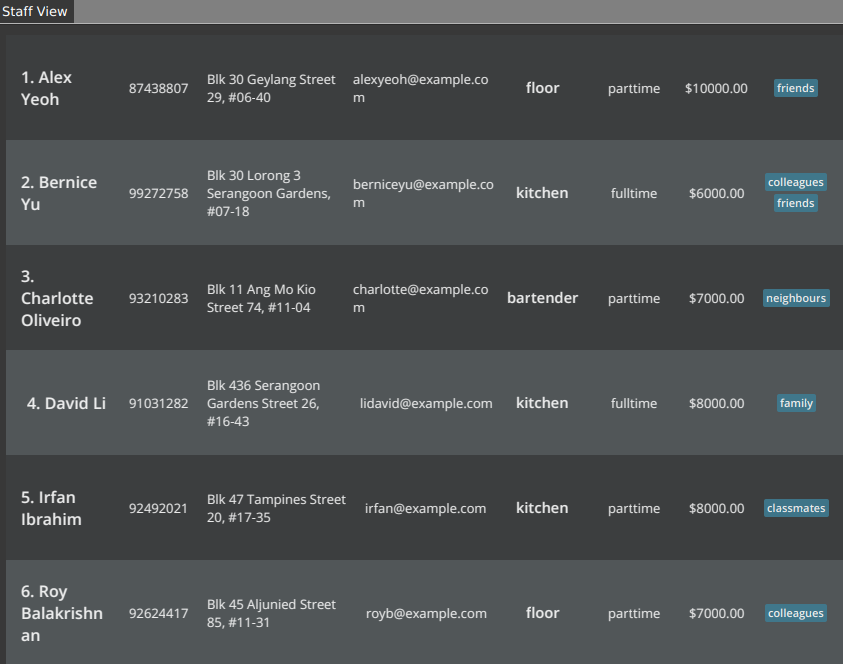
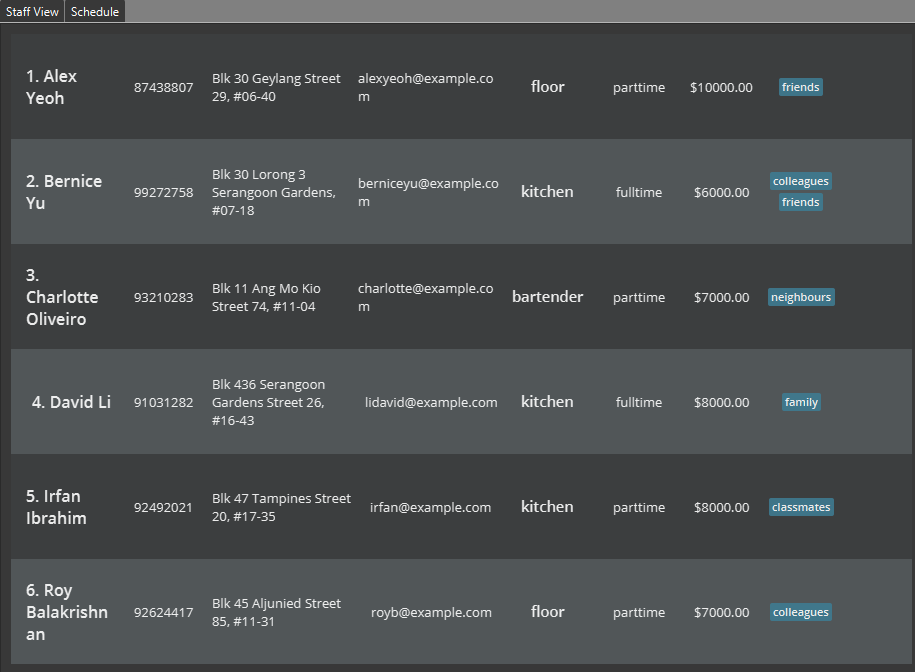
Fix tabs

diff --git a/docs/UserGuide.md b/docs/UserGuide.md
@@ -124,7 +124,7 @@ Format: `help`
 
 #### Changing tabs : `tab`
 
-Switches from the tabs, staff view and schedule.
+Switches between the tabs: staff view and schedule.
 
 Format: `tab`
 
